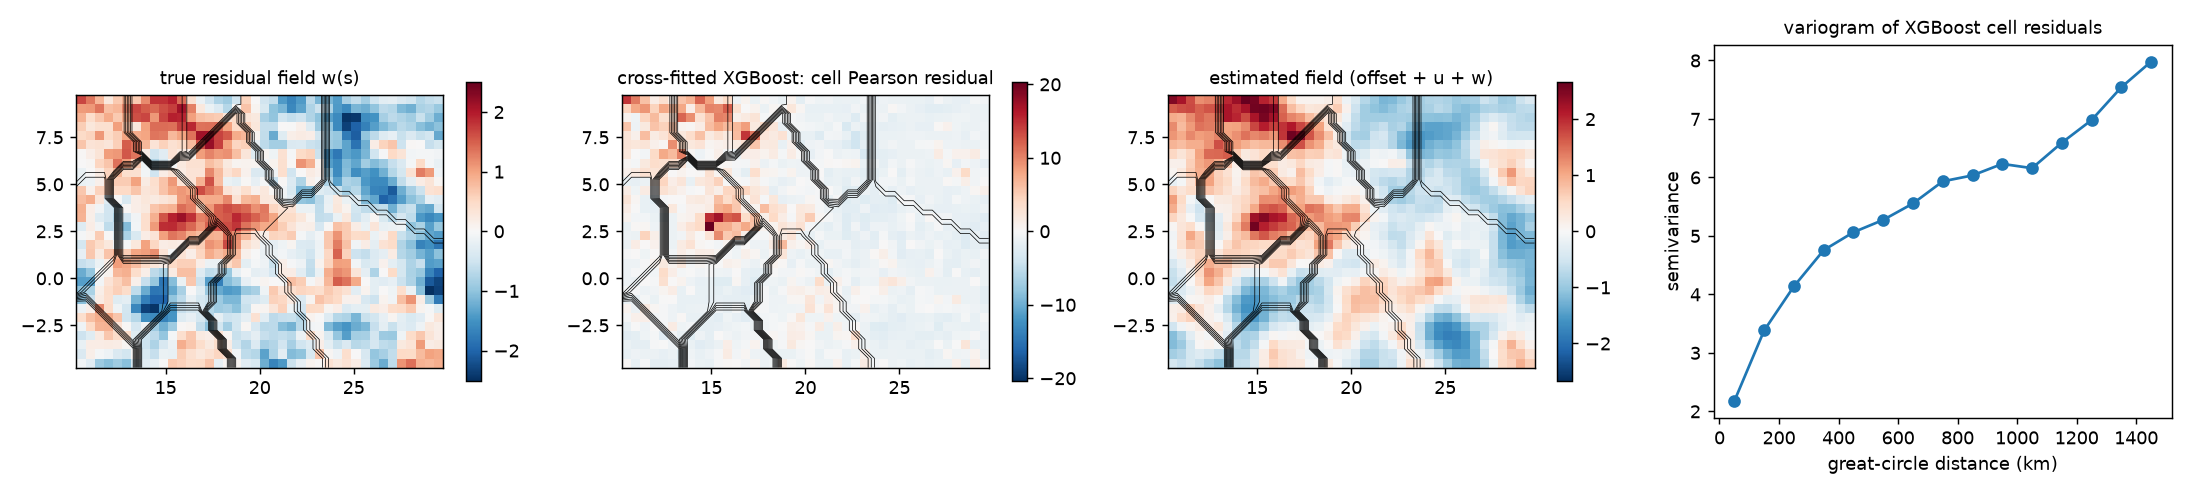
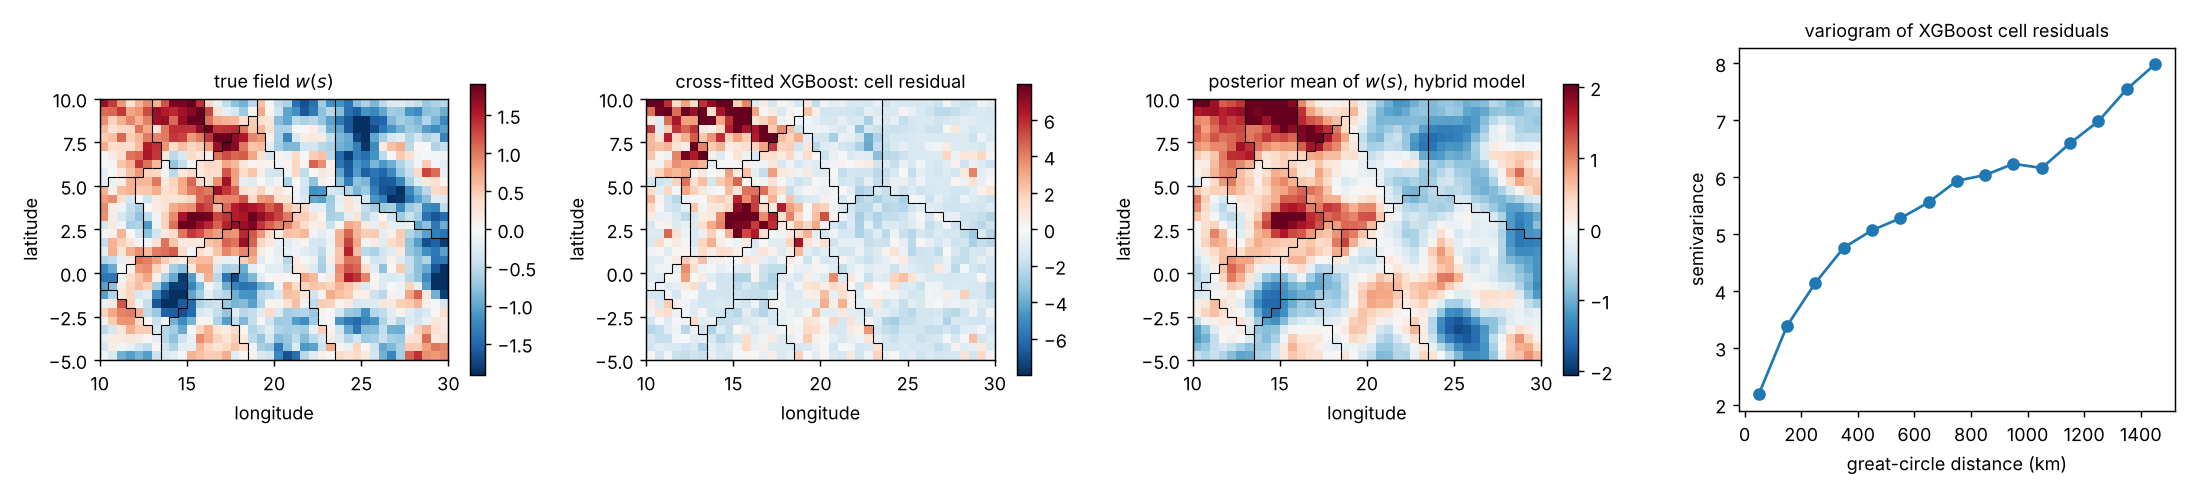
S1 figure: clean borders, robust colour scale, correct panel title
Claude-Session: https://claude.ai/code/session_01H85kxLsrzzXKJMbCCVADs7

diff --git a/sims/s1_residual_field.py b/sims/s1_residual_field.py
@@ -111,15 +111,26 @@ def figure(seed=1):
         g = np.full(L.mask.shape, np.nan); g[L.row, L.col] = v; return g
 
     fig, ax = plt.subplots(1, 4, figsize=(17, 3.8))
-    ext = [L.lon_c[0], L.lon_c[-1], L.lat_c[0], L.lat_c[-1]]
-    for a, v, t in [(ax[0], sim.cells["w"], "true residual field w(s)"),
-                    (ax[1], r, "cross-fitted XGBoost: cell Pearson residual"),
-                    (ax[2], m.block_mean(2), "estimated field (offset + u + w)")]:
-        im = a.imshow(grid(v), origin="lower", extent=ext, cmap="RdBu_r",
-                      vmin=-np.nanmax(np.abs(v)), vmax=np.nanmax(np.abs(v)))
+    ext = [L.lon_c[0] - 0.25, L.lon_c[-1] + 0.25, L.lat_c[0] - 0.25, L.lat_c[-1] + 0.25]
+    cg = grid(sim.cells["country"].to_numpy().astype(float))
+    # country borders: segments between horizontally / vertically adjacent cells of different countries
+    segs = []
+    for i in range(cg.shape[0]):
+        for j in range(cg.shape[1]):
+            x, y = L.lon_c[j], L.lat_c[i]
+            if j + 1 < cg.shape[1] and cg[i, j] != cg[i, j + 1]:
+                segs.append([(x + 0.25, y - 0.25), (x + 0.25, y + 0.25)])
+            if i + 1 < cg.shape[0] and cg[i, j] != cg[i + 1, j]:
+                segs.append([(x - 0.25, y + 0.25), (x + 0.25, y + 0.25)])
+    from matplotlib.collections import LineCollection
+    for a, v, t in [(ax[0], sim.cells["w"].to_numpy(), "true field $w(s)$"),
+                    (ax[1], r, "cross-fitted XGBoost: cell residual"),
+                    (ax[2], m.block_mean(2), "posterior mean of $w(s)$, hybrid model")]:
+        lim = np.nanquantile(np.abs(v), 0.98)
+        im = a.imshow(grid(v), origin="lower", extent=ext, cmap="RdBu_r", vmin=-lim, vmax=lim)
         a.set_title(t, fontsize=10); plt.colorbar(im, ax=a, shrink=0.8)
-        a.contour(L.lon_c, L.lat_c, grid(sim.cells["country"]), levels=np.arange(20) + .5,
-                  colors="k", linewidths=0.4)
+        a.add_collection(LineCollection(segs, colors="k", linewidths=0.6))
+        a.set_xlabel("longitude"); a.set_ylabel("latitude")
     vg = dg.variogram(r, L.lon, L.lat, np.arange(0, 1600, 100))
     ax[3].plot(vg.dist_km, vg.gamma, "o-")
     ax[3].set_xlabel("great-circle distance (km)"); ax[3].set_ylabel("semivariance")

diff --git a/paper/sections/simulation.tex b/paper/sections/simulation.tex
@@ -171,9 +171,10 @@ replicates).}\label{tab:s1-field}
 \centering
 \includegraphics[width=\textwidth]{figures/s1_maps.png}
 \caption{S1, one replicate. From left: the true field $w$; standardised cell residuals
-of the XGBoost model cross-fitted by country; posterior mean of $w$ in the hybrid
-model~\eqref{eq:hybrid}; semivariogram of the XGBoost cell residuals. Lines are country
-borders.}\label{fig:s1}
+of the XGBoost model cross-fitted by country (training period); posterior mean of $w$
+in the hybrid model~\eqref{eq:hybrid}; semivariogram of the XGBoost cell residuals.
+Colour scales are symmetric and capped at the 98th percentile of the absolute values.
+Lines are country borders.}\label{fig:s1}
 \end{figure}
 
 \subsection{S2: national indicators under spatial confounding}\label{sec:sim-confounding}
